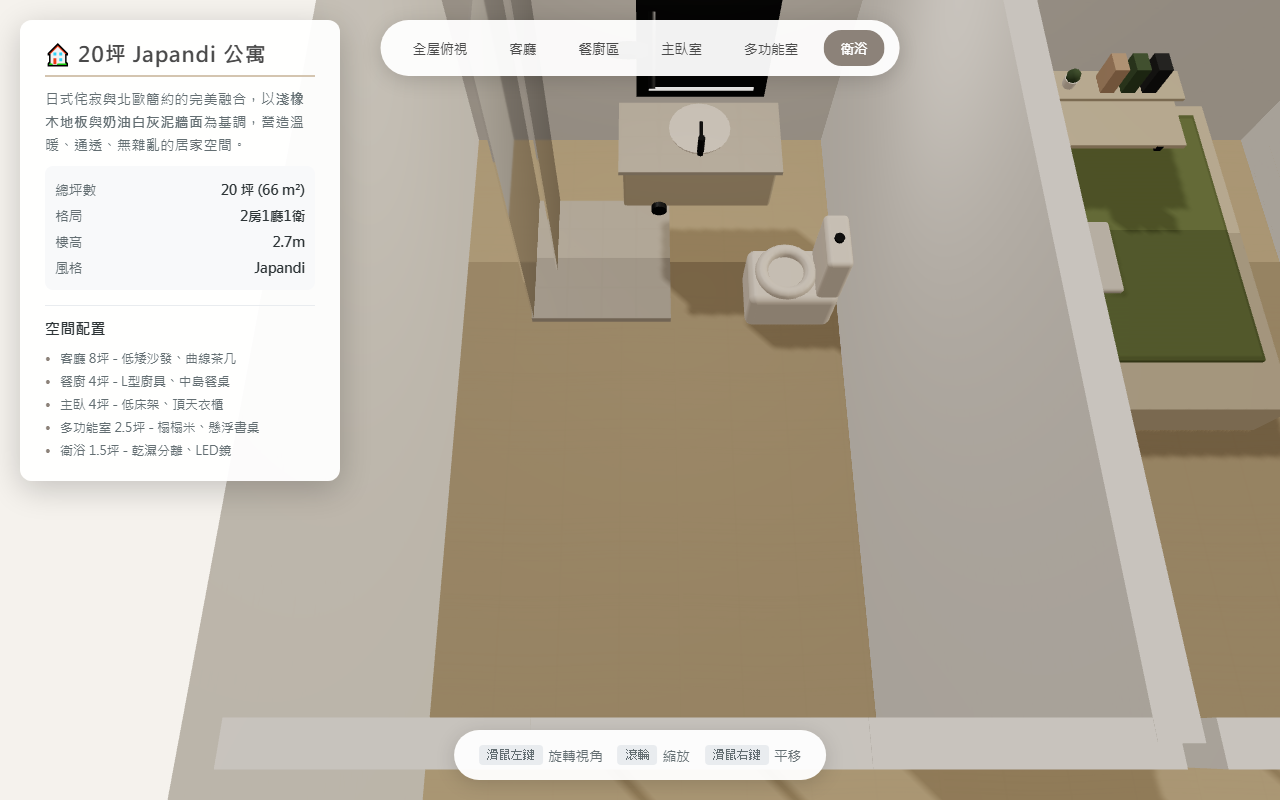
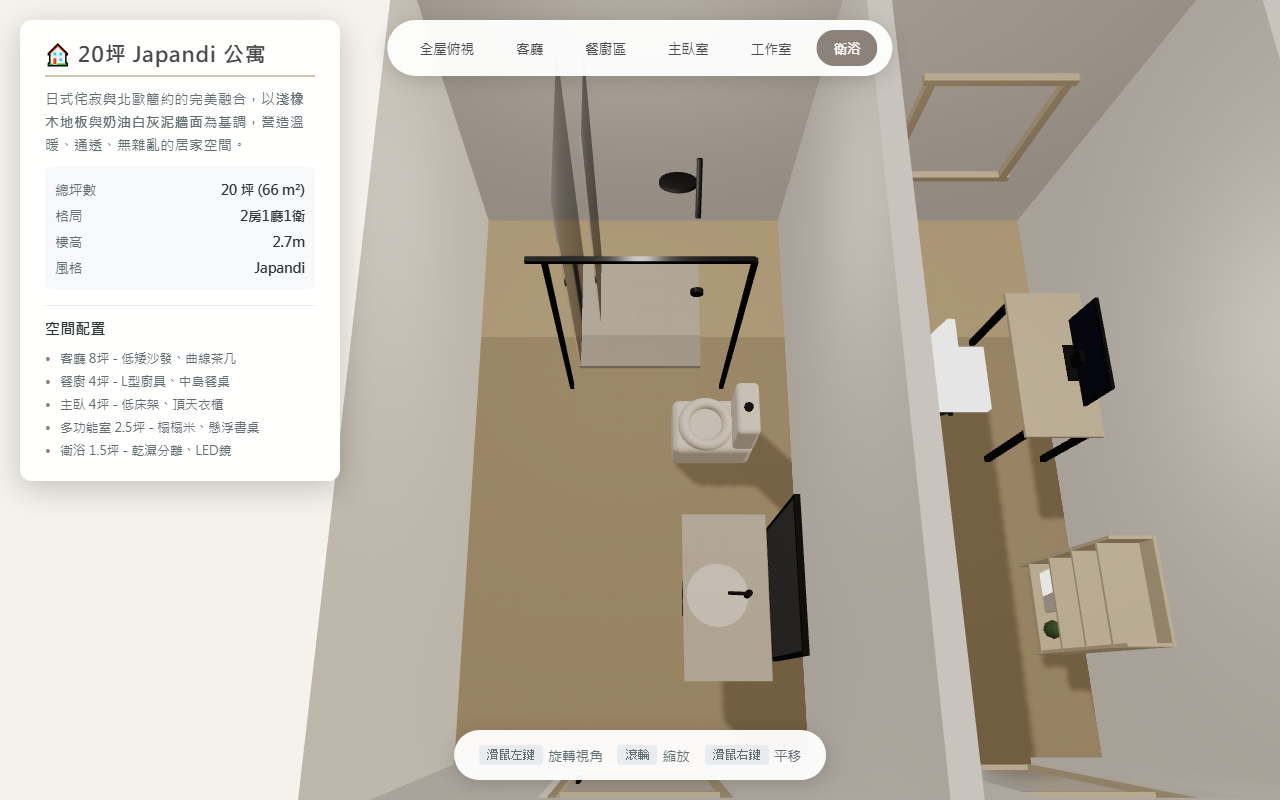
feat: 優化攝影機視角與動畫、調整家具位置

diff --git a/src/main.js b/src/main.js
@@ -127,33 +127,58 @@ setupLights();
 
 // ===== 視角切換功能 =====
 let currentView = 'overview';
+let isAnimating = false;
 
 function switchView(viewName) {
   const view = CAMERA_VIEWS[viewName];
-  if (!view) return;
+  if (!view || isAnimating) return;
   
   currentView = viewName;
+  isAnimating = true;
   
-  // 平滑過渡相機位置
   const targetPos = new THREE.Vector3(...view.pos);
   const targetLook = new THREE.Vector3(...view.target);
-  
-  // 簡單的動畫過渡
   const startPos = camera.position.clone();
   const startTarget = controls.target.clone();
-  const duration = 1000;
+  
+  // 計算距離，根據距離調整動畫時間
+  const distance = startPos.distanceTo(targetPos);
+  const duration = Math.min(2000, Math.max(800, distance * 120));
+  
+  // 計算中間點（弧形路徑）- 讓相機先拉高再移動
+  const midPoint = new THREE.Vector3().lerpVectors(startPos, targetPos, 0.5);
+  const heightBoost = Math.max(startPos.y, targetPos.y) + distance * 0.15;
+  midPoint.y = Math.max(midPoint.y, heightBoost);
+  
   const startTime = Date.now();
   
   function animateCamera() {
     const elapsed = Date.now() - startTime;
     const t = Math.min(elapsed / duration, 1);
-    const easeT = t < 0.5 ? 2 * t * t : 1 - Math.pow(-2 * t + 2, 2) / 2;
     
-    camera.position.lerpVectors(startPos, targetPos, easeT);
+    // 使用更平滑的 ease-in-out 曲線
+    const easeT = t < 0.5 
+      ? 4 * t * t * t 
+      : 1 - Math.pow(-2 * t + 2, 3) / 2;
+    
+    // 二次貝茲爾曲線：起點 -> 中間點 -> 終點
+    const p0 = startPos;
+    const p1 = midPoint;
+    const p2 = targetPos;
+    
+    // B(t) = (1-t)²*P0 + 2*(1-t)*t*P1 + t²*P2
+    const oneMinusT = 1 - easeT;
+    const posX = oneMinusT * oneMinusT * p0.x + 2 * oneMinusT * easeT * p1.x + easeT * easeT * p2.x;
+    const posY = oneMinusT * oneMinusT * p0.y + 2 * oneMinusT * easeT * p1.y + easeT * easeT * p2.y;
+    const posZ = oneMinusT * oneMinusT * p0.z + 2 * oneMinusT * easeT * p1.z + easeT * easeT * p2.z;
+    
+    camera.position.set(posX, posY, posZ);
     controls.target.lerpVectors(startTarget, targetLook, easeT);
     
     if (t < 1) {
       requestAnimationFrame(animateCamera);
+    } else {
+      isAnimating = false;
     }
   }
   

diff --git a/src/rooms/study.js b/src/rooms/study.js
@@ -212,7 +212,7 @@ function createOfficeChair() {
 // 組裝工作室
 // 房間深度 4.0m（從 Z=-2.0 門口到 Z=2.0 後牆）
 // 配置：
-//   - 書桌面向窗戶（後牆）
+//   - 書桌靠左牆，面向右側，窗戶光線從左側灑入
 //   - 窗戶在後牆，提供自然採光
 //   - 層架靠左牆靠近門口
 export function createStudyRoom(offsetX = 0, offsetZ = 0) {
@@ -225,22 +225,22 @@ export function createStudyRoom(offsetX = 0, offsetZ = 0) {
   window.position.set(0, H/2, 1.85);
   g.add(window);
   
-  // 書桌 - 面向窗戶，在房間後半部
+  // 書桌 - 靠左牆，轉 90 度面向右側，讓窗戶光線從左側灑入
   const desk = createDesk();
-  desk.position.set(0, 0, 0.8);
-  desk.rotation.y = Math.PI;  // 面向窗戶
+  desk.position.set(-0.6, 0, 0.5);
+  desk.rotation.y = Math.PI / 2;  // 轉 90 度，面向右側
   g.add(desk);
   
   // 電腦螢幕 - 在書桌上，面向使用者
   const monitor = createMonitor();
-  monitor.position.set(0, 0, 1.0);
-  monitor.rotation.y = Math.PI;
+  monitor.position.set(-0.75, 0, 0.5);
+  monitor.rotation.y = Math.PI / 2;
   g.add(monitor);
   
-  // 辦公椅 - 在書桌前，面向窗戶
+  // 辦公椅 - 在書桌右側，面向左側（面向書桌）
   const chair = createOfficeChair();
-  chair.position.set(0, 0, 0.3);
-  chair.rotation.y = Math.PI;  // 面向書桌/窗戶
+  chair.position.set(-0.05, 0, 0.5);
+  chair.rotation.y = -Math.PI / 2;  // 面向左側（書桌方向）
   g.add(chair);
   
   // 層架 - 靠左牆靠近門口

diff --git a/src/config.js b/src/config.js
@@ -60,15 +60,15 @@ export const COLORS = {
 };
 
 // ===== 相機預設位置 =====
-// 根據新的公寓佈局調整 (擴大主臥 + 縮小工作室)
+// 調整為能完整顯示各空間的視角
 export const CAMERA_VIEWS = {
-  // 公領域 - 正常視角
-  living: { pos: [-4, 2.5, -3], target: [0, 0.8, 0] },
-  kitchen: { pos: [6, 2.5, -2], target: [4, 0.8, 0] },
-  // 私領域 - 斜上方俯視 (較近距離，能看清家具)
-  master: { pos: [-2.5, 4, 2.5], target: [0, 0.5, 4.5] },
-  study: { pos: [1, 3.5, 2.5], target: [2.2, 0.5, 4.5] },
-  bath: { pos: [3, 3.5, 2.5], target: [4.3, 0.5, 4.5] },
+  // 公領域 - 斜上方俯視
+  living: { pos: [0, 6, 3], target: [0, 0, -0.5] },
+  kitchen: { pos: [4, 5, 2], target: [4, 0, -0.5] },
+  // 私領域 - 斜上方俯視，能看到完整房間
+  master: { pos: [-0.75, 7, 2.5], target: [-0.75, 0, 4.5] },
+  study: { pos: [2.2, 6, 2.5], target: [2.2, 0, 4.5] },
+  bath: { pos: [4.3, 6, 2.5], target: [4.3, 0, 4.5] },
   // 全屋俯視
   overview: { pos: [1.5, 12, -4], target: [1.5, 0, 2] },
 };

diff --git a/index.html b/index.html
@@ -196,14 +196,14 @@
   
   <div id="canvas-container"></div>
   
-  <!-- 空間導覽列 -->
+  <!-- 空間導覽列 (按空間位置排列，讓視角切換更連貫) -->
   <nav id="nav-bar">
     <button class="view-btn active" data-view="overview" onclick="switchView('overview')">全屋俯視</button>
-    <button class="view-btn" data-view="living" onclick="switchView('living')">客廳</button>
-    <button class="view-btn" data-view="kitchen" onclick="switchView('kitchen')">餐廚區</button>
     <button class="view-btn" data-view="master" onclick="switchView('master')">主臥室</button>
     <button class="view-btn" data-view="study" onclick="switchView('study')">工作室</button>
     <button class="view-btn" data-view="bath" onclick="switchView('bath')">衛浴</button>
+    <button class="view-btn" data-view="kitchen" onclick="switchView('kitchen')">餐廚區</button>
+    <button class="view-btn" data-view="living" onclick="switchView('living')">客廳</button>
   </nav>
 
   <div id="info-panel">

diff --git a/src/rooms/bathroom.js b/src/rooms/bathroom.js
@@ -220,19 +220,19 @@ export function createBathroom(offsetX = 0, offsetZ = 0) {
   
   // 洗手台 - 靠近門口但不擋門，轉 90 度靠左牆
   const vanity = createVanity();
-  vanity.position.set(-0.5, 0, -1.0);
+  vanity.position.set(-0.75, 0, -1.0);
   vanity.rotation.y = Math.PI / 2; // 轉 90 度靠牆
   g.add(vanity);
   
   // 鏡子 - 洗手台上方（左牆）
   const mirror = createMirror();
-  mirror.position.set(-0.75, 1.5, -1.0);
+  mirror.position.set(-0.9, 1.5, -1.0);
   mirror.rotation.y = Math.PI / 2;
   g.add(mirror);
   
   // 馬桶 - 中間位置，轉 90 度靠左牆
   const toilet = createToilet();
-  toilet.position.set(-0.5, 0, 0.2);
+  toilet.position.set(-0.75, 0, 0.2);
   toilet.rotation.y = Math.PI / 2; // 轉 90 度靠牆
   g.add(toilet);
   
